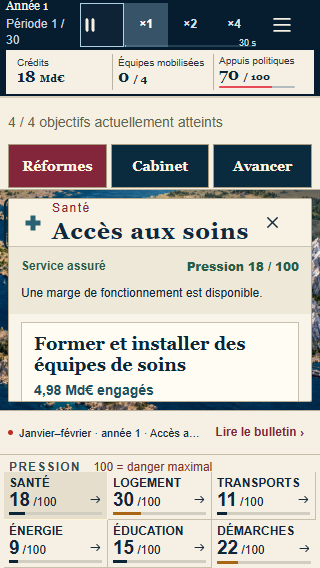
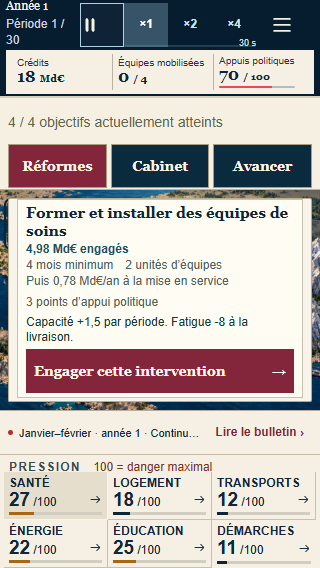
docs(mandats): retain verified compact layout and final build evidence

diff --git a/docs/mandats-vdef.md b/docs/mandats-vdef.md
@@ -11,7 +11,7 @@ Consolidation de la présidence v17 : trente périodes de deux mois, trente seco
 - Objectifs accessibles pendant les arbitrages, bulletin complet en pause et commande directe « Avancer » jusqu'au prochain changement enregistré par le moteur.
 - Projection enregistrée en une sauvegarde avant publication ; bilan avec vrais reçus et rejeu de l'ordre d'origine, archive et restauration sur échec.
 
-Le défilement conserve la lecture sur mobile. En paysage bas, l'en-tête du panneau défile aussi pour laisser toute la place aux commandes. Les six cibles restent séparées et mesurent au moins 44 px ; calendrier et légende utilisent au moins 12 px.
+Le défilement conserve la lecture sur mobile. En paysage bas, l'en-tête du panneau défile aussi pour laisser toute la place aux commandes. Les six cibles restent séparées et mesurent au moins 44 px ; calendrier et légende utilisent au moins 12 px. Sur mobile, l’en-tête du panneau défile avec les décisions : une carte complète reste accessible à 320×740 ; aux hauteurs les plus petites, titre, coûts, moyens, effets et commande se lisent successivement dans ce même défilement, sans texte masqué.
 
 ## Couverture de l'audit A01–A18
 
@@ -51,12 +51,14 @@ Les avertissements de taille Vite et d'exécution expérimentale TypeScript de N
 
 - [Avant](mandats-vdef/captures/avant-desktop.png) et [après sur ordinateur](mandats-vdef/captures/apres-desktop.png), [arbitrage](mandats-vdef/captures/apres-arbitrage-desktop.png), [bilan](mandats-vdef/captures/apres-bilan.png).
 - [Mobile 390 px](mandats-vdef/captures/apres-mobile.png), [compact 320 px](mandats-vdef/captures/apres-compact.png) et [paysage 844×390](mandats-vdef/captures/apres-paysage.png). Ces captures montrent le jeu implémenté ; les concepts ImageGen restent dans l’audit.
-- [Empreintes du build et provenance des contrôles](mandats-vdef/build-evidence.json). Les captures ordinateur proviennent de la recette finale ; celles des trois formats mobiles de la recette runtime approuvée, avant le seul garde clavier de sept lignes, sans changement de présentation.
+- [Empreintes du build et provenance des contrôles](mandats-vdef/build-evidence.json). Les captures ordinateur proviennent de la recette finale ; les captures mobile, compact et paysage ont été renouvelées après la correction CI de hauteur du panneau. [Compact 320×740, carte entière dès ouverture](mandats-vdef/captures/apres-compact-740.png). En 320×568 et paysage, la capture présente un état de lecture après défilement. Les valeurs des captures suivent leurs scénarios de recette et ne constituent pas une comparaison d’équilibrage.
 - Inspection manuelle du build final : reprise sauvegardée, coûts/délais Santé, temps ×1, bulletin daté, projection de deux périodes arrêtée sur nouvelle alerte et maintien en pause. Les premières minutes et trajectoires complètes sont aussi parcourues automatiquement ; aucune session de joueur externe n’est prétendue.
 
 La tentative locale de suites intégrales simultanées a saturé la mémoire disponible (moins de 0,6 Go) : des délais ont été dépassés et les runs interrompus. Ils ne sont pas comptés comme réussites. Les configurations intégrales, dont les cinq formats vDef, sont exécutées par les contrôles CI de la PR, sur des jobs séparés. Le harnais vDef fige l’horloge avant navigation ; aucun délai ni assertion n’est assoupli pour compenser la charge.
 
 Le jeton GitHub ne permet pas de modifier les workflows : le raccordement utilise leur configuration déjà exécutée. Aucun workflow ni droit n’est modifié ; les contrôles historiques sont conservés. Le correctif du harnais passe 10 cas sur cinq formats ; le raccordement CI passe 10 cas supplémentaires avec les noms de projets de la CI.
+
+La première CI a aussi révélé deux attentes de titre et une date antérieures à la copie approuvée, ainsi qu’une carte coupée dans deux parcours320×740. Les attentes exactes ont été actualisées, sans modifier la vérification des guides, redirections ni anciennes données. Le correctif CSS conserve toutes les assertions historiques de visibilité intégrale et de cible au centre et passe huit cas ciblés ; onze parcours de copie passent, avec quatre exclusions préexistantes du test de redirection, réservé au poste de bureau. Après reconstruction complète, les deux parcours320×740 et les deux parcours WebKit passent encore. Les 1 142 tests unitaires, types, pages statiques et 37 ressources hors connexion sont revérifiés sur ces sources. Les contrôles CI sont relancés sur la tête de livraison exacte.
 
 ## Publication et limites
 
